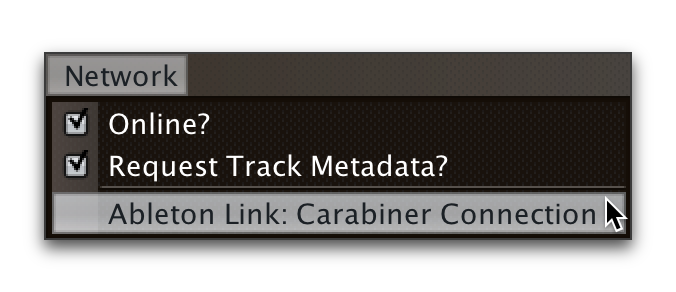
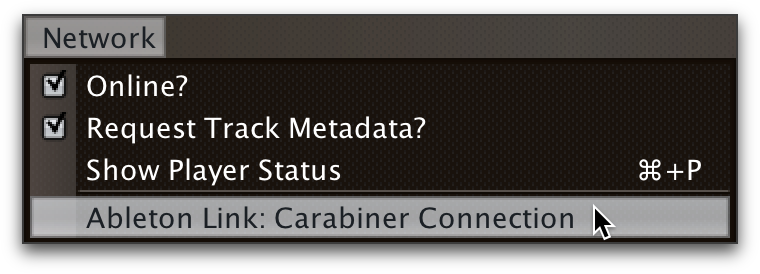
Update screen shots, add Player Status.

diff --git a/README.md b/README.md
@@ -22,7 +22,14 @@ A trigger window will open, in which you can choose the players you
 want to watch, the kind of MIDI message to send when they start and
 stop, and when the triggers are enabled:
 
-<image src="doc/assets/TriggerWindow.png" alt="Trigger window" width="840">
+<image src="doc/assets/TriggerWindow.png" alt="Trigger window" width="793">
+
+Starting with version 0.3.0, there is also an interface for monitoring
+the status of each player found on the network, which you can access
+by choosing `Show Player Status` in the `Network` menu:
+
+<image src="doc/assets/PlayerStatus.png" alt="Player Status window"
+width="538">
 
 ### Going Further
 
